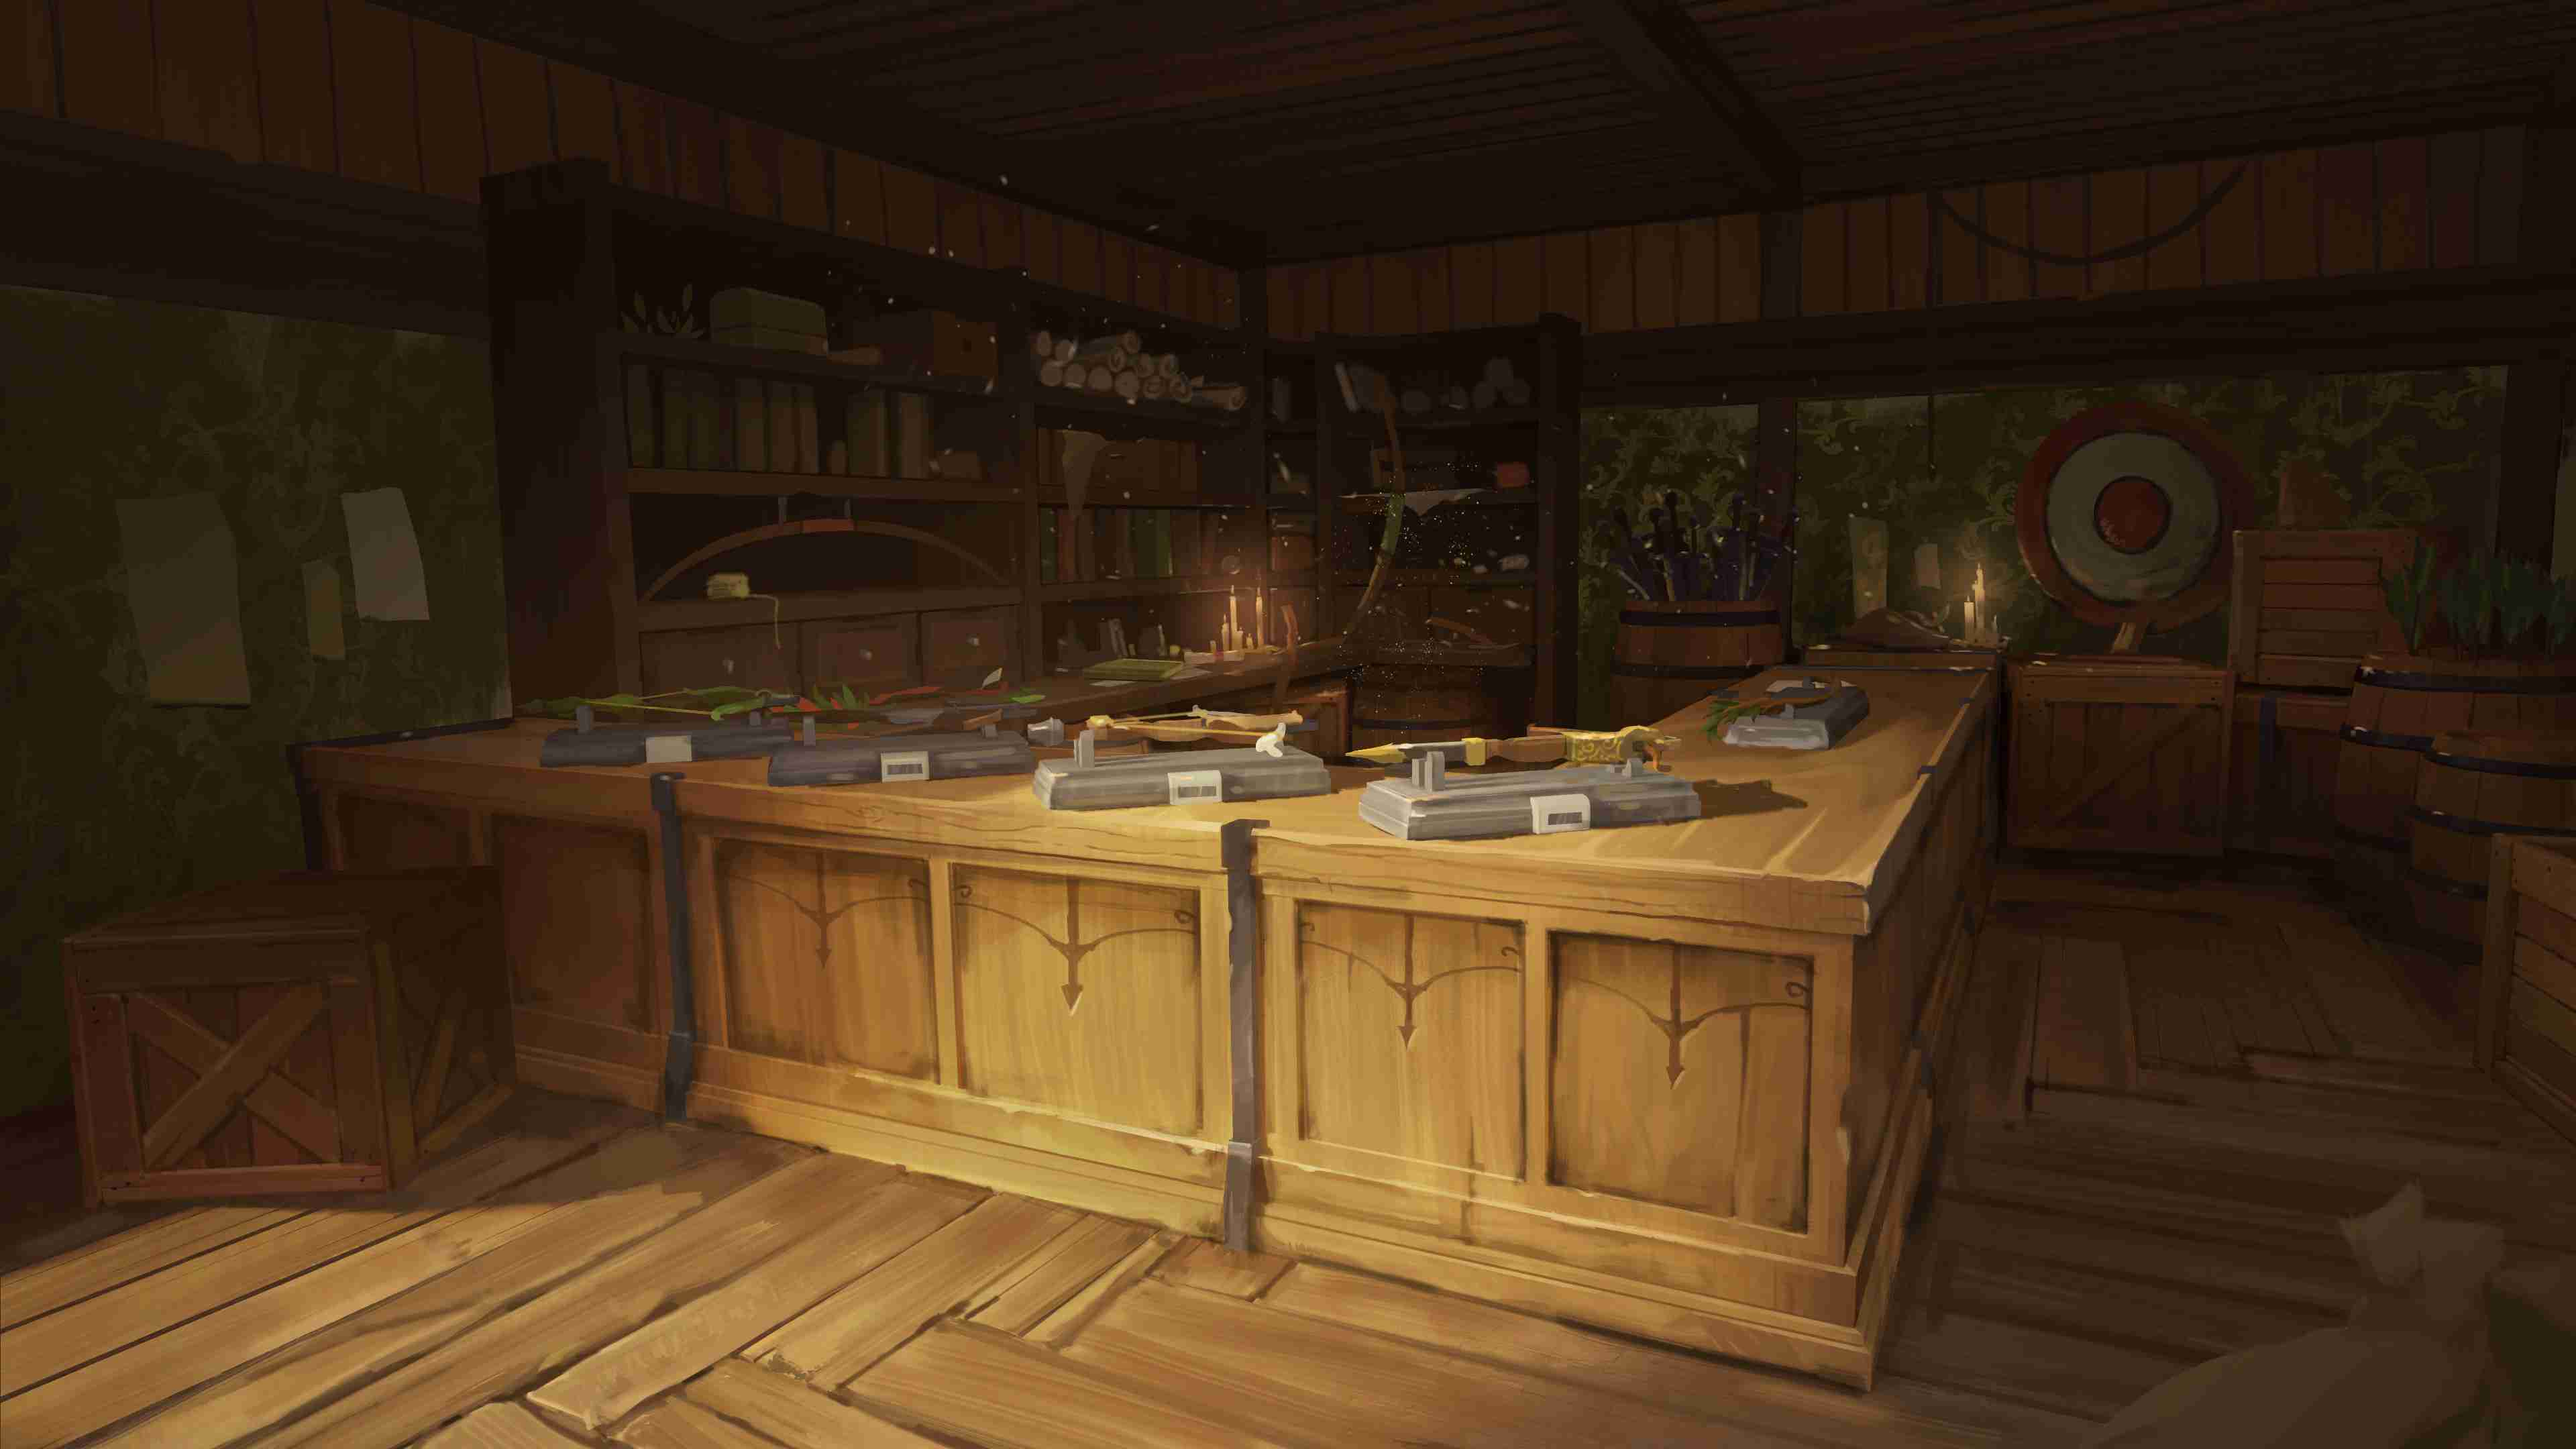
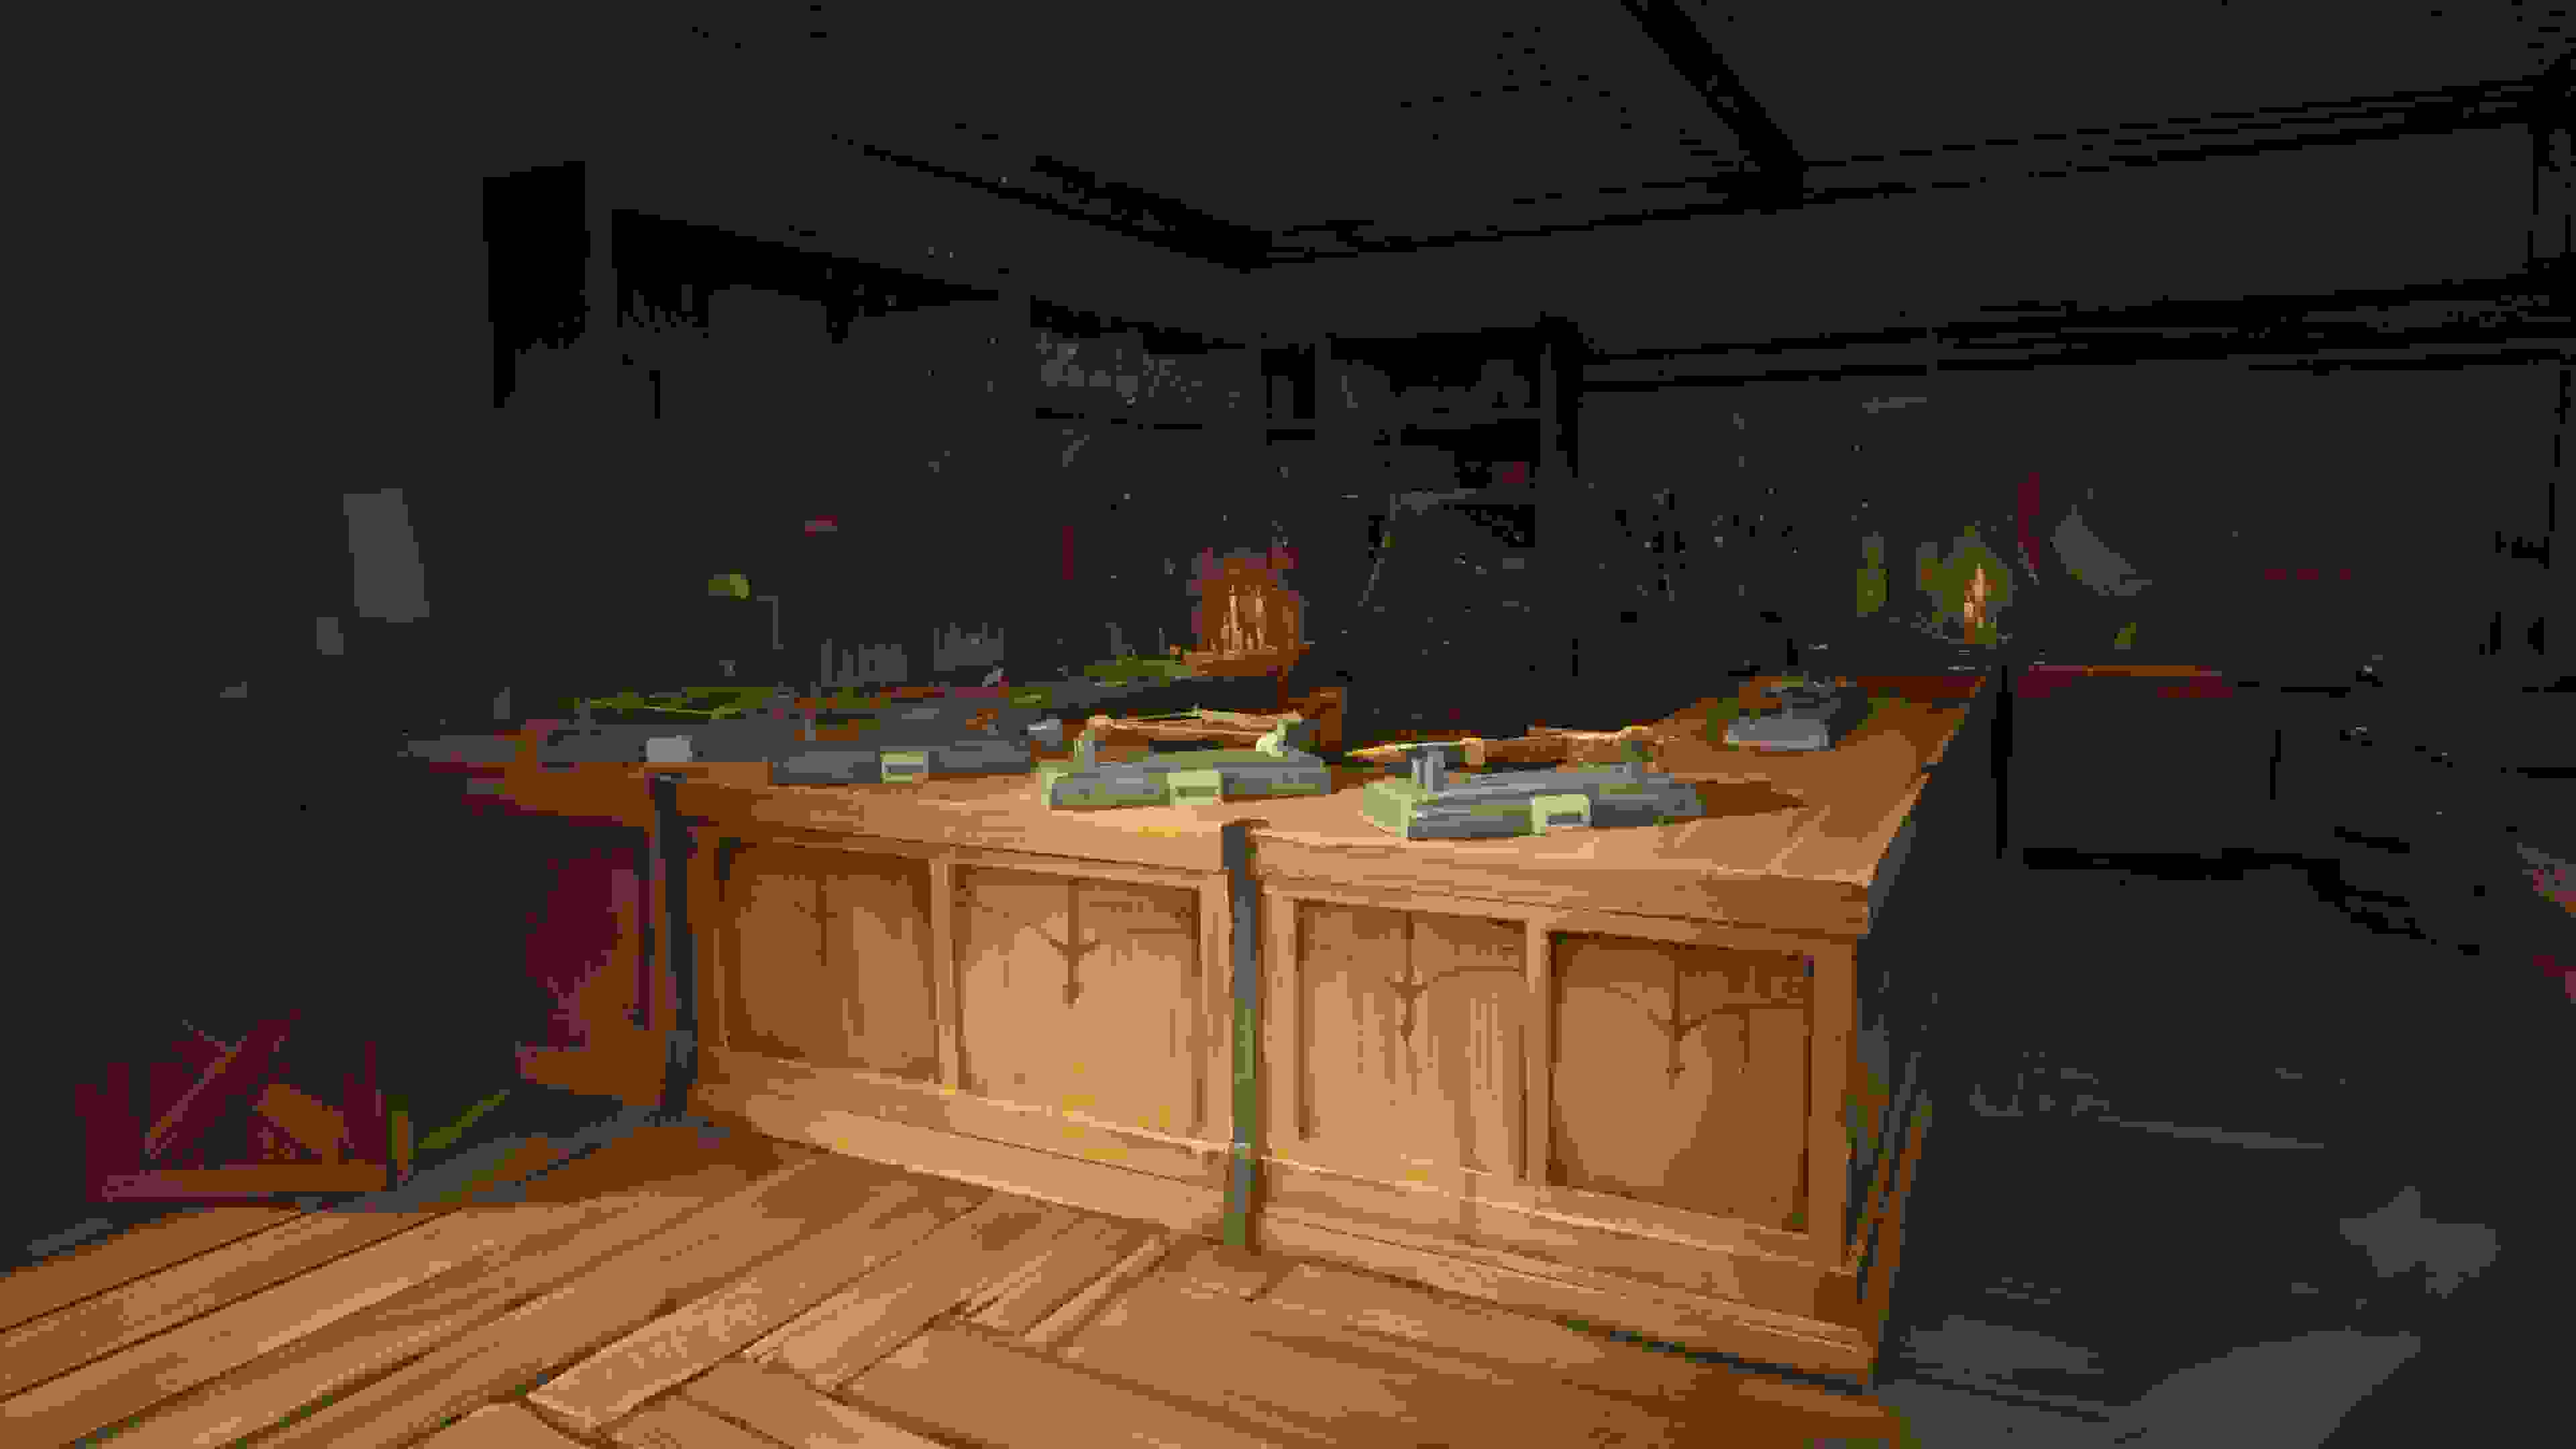
Add admin UI tool for low-res image management
- Local Express server (_admin/) with image processing via sharp
- Admin UI at /admin: mark images as low-res, add purchase links, publish to GitHub
- ui.js: auto-apply low-res swap to all uses of marked images across the page
- Clicking low-res gallery images opens purchase link instead of lightbox
- Low-res generated at quality 15 JPEG (degraded but viewable, not VTT-usable)
- Cache-busting via ?v=timestamp on lowresSrc paths

diff --git a/adventures/statue-heist/links.js b/adventures/statue-heist/links.js
@@ -1,14 +1,10 @@
 window.AdventureLinks = {
   "locations-boss-room-jpg": {
     lowres: true,
-    lowresSrc: "images/locations/boss-room-lowres.jpg?v=1776792931799"
+    lowresSrc: "images/locations/boss-room-lowres.jpg?v=1776793629201"
   },
-  "locations-bakery-jpg": {
+  "locations-magic-popup-jpg": {
     lowres: true,
-    lowresSrc: "images/locations/bakery-lowres.jpg?v=1776792931094"
-  },
-  "locations-hunting-guild-jpg": {
-    lowres: true,
-    lowresSrc: "images/locations/hunting-guild-lowres.jpg?v=1776793117531"
+    lowresSrc: "images/locations/magic-popup-lowres.jpg?v=1776793616345"
   }
 };

diff --git a/_admin/server.js b/_admin/server.js
@@ -122,7 +122,7 @@ app.post('/api/lowres', async (req, res) => {
     fs.mkdirSync(path.dirname(destPath), { recursive: true });
 
     await sharp(srcPath)
-      .jpeg({ quality: 20 })
+      .jpeg({ quality: 15 })
       .toFile(destPath);
 
     res.json({ lowresSrc: `images/${lowresRel}?v=${Date.now()}` });

diff --git a/_admin/WIP.md b/_admin/WIP.md
@@ -64,9 +64,9 @@ Served by the Express server. Single page:
 |---|-------|--------|
 | 1 | Server scaffold + image API (`/api/adventures`, `/api/lowres`, `/api/save`) | ✅ Done |
 | 2 | Admin UI — adventure selector + image grid + toggles | ✅ Done |
-| 3 | Preview — iframe showing adventure page with pending config | Not started |
+| 3 | Preview — iframe showing adventure page with pending config | Skipped — localhost:3001 serves live preview |
 | 4 | `ui.js` update — low-res swap + blur on page load | ✅ Done |
-| 5 | Publish — `/api/publish` git integration + publish button | Not started |
+| 5 | Publish — `/api/publish` git integration + publish button | ✅ Done |
 
 ---
 
